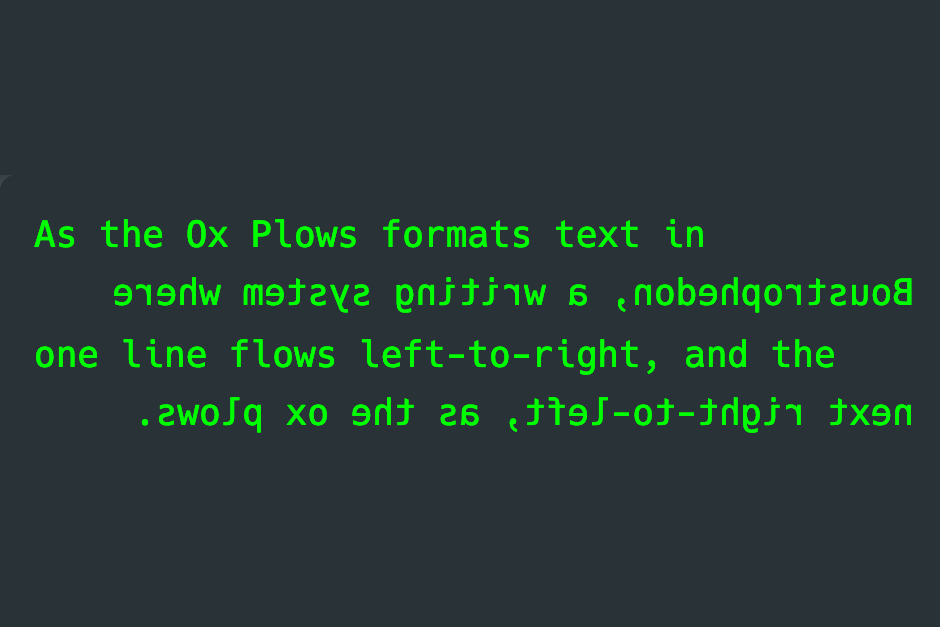
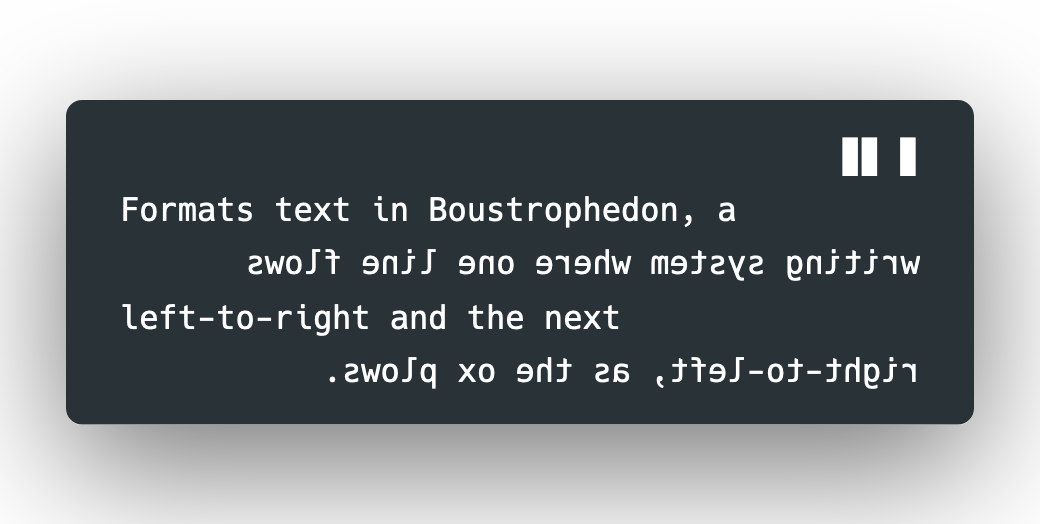
New twitter card image

diff --git a/index.html b/index.html
@@ -18,8 +18,8 @@
     <meta name="keywords" conent="Daniel Temkin, boustrophedon, ancient writing, new media art, code art, experimental, conceptual" />
     <meta name="twitter:image" content="https://oxplows.com/OxPlows/oxplows_header.png" />
     <meta property="og:image" content="https://oxplows.com/OxPlows/oxplows_header.png" />
-    <meta property="og:image:width" content="940" />
-    <meta property="og:image:height" content="627" />    
+    <meta property="og:image:width" content="1040" />
+    <meta property="og:image:height" content="524" />    
 </head>
 <body>
     <h2>As the<br/>&nbsp;&nbsp;<span style="transform:scaleX(-1);display:inline-block">Ox Plows</span></h2>

diff --git a/boustrophedon.js b/boustrophedon.js
@@ -5,8 +5,8 @@ colorsets = [
     {
         desktop: "#ffffff",
         window: "#283237",
-        text: "#00ff00",
-        boxes: "#00ff00"
+        text: "#ffffff",
+        boxes: "#ffffff"
     }
 ]
 
